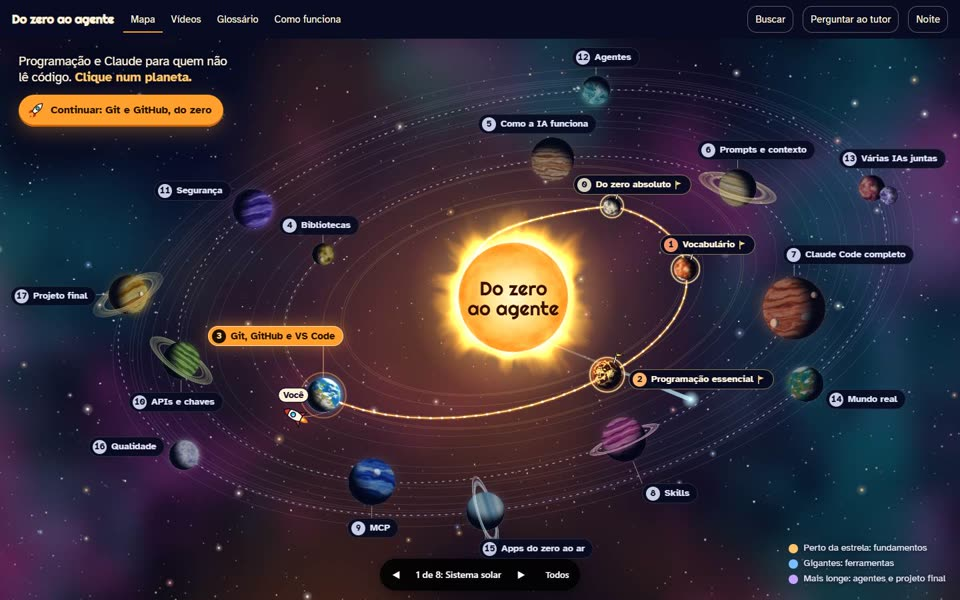
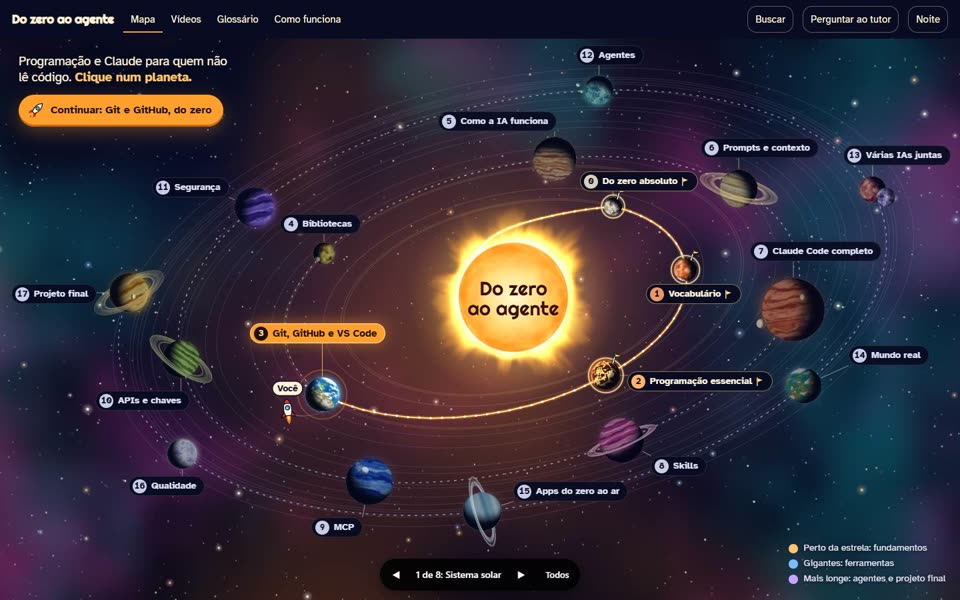
Versão final da aparência do sistema solar

diff --git a/temas/1-sistema-solar.html b/temas/1-sistema-solar.html
@@ -436,12 +436,12 @@ function estadoNave(x, y, r, L, t) {
   const [nx, ny] = pos(fi), [ax, ay] = pos(fi + .05);
   return { nx, ny, dir: Math.atan2(ay - ny, ax - nx), frente: Math.sin(fi) >= 0, fi, pos };
 }
-function pintaRastro(c, n, r, alfa) {
-  c.lineCap = 'round';
+function pintaRastro(c, n, r, alfa, z) {
+  c.lineCap = 'butt';
   for (let i = 0; i < 16; i++) {
     const a = n.fi - .1 - i * .11, b = a - .11, [x1, y1] = n.pos(a), [x2, y2] = n.pos(b);
     if (Math.sin(a) < 0 && Math.hypot(x1 - n.cx, y1 - n.cy) < r) continue;
-    c.strokeStyle = `rgba(255,190,110,${alfa * (1 - i / 16) * .85})`; c.lineWidth = Math.max(1, r * .05) * (1 - i / 22);
+    c.strokeStyle = `rgba(255,190,110,${alfa * (1 - i / 16) * .85})`; c.lineWidth = Math.max(1 / z, Math.min(r * .05, 3.4 / z)) * (1 - i / 22);
     c.beginPath(); c.moveTo(x1, y1); c.lineTo(x2, y2); c.stroke();
   }
 }
@@ -467,7 +467,7 @@ function pintaPlaneta(c, p, x, y, r, ang, t, o) {
   if (p.luas) for (const l of p.luas) pintaLua(c, p, l, x, y, r, ang, t, false);
   if (p.par) pintaLua(c, p, p.par, x, y, r, ang, t, false);
   c.globalAlpha = 1;
-  if (nave && !nave.frente) { pintaRastro(c, nave, r, 1); pintaNave(c, nave.nx, nave.ny, o.nave * .88, nave.dir, t); }
+  if (nave && !nave.frente) { pintaRastro(c, nave, r, 1, z); pintaNave(c, nave.nx, nave.ny, o.nave * .88, nave.dir, t); }
   superficie(c, p, x, y, r, ang, ap ? 1 - ap * .55 : 1);
   if (ap) { c.globalAlpha = ap * .4; c.fillStyle = '#060920'; c.beginPath(); c.arc(x, y, r + .4, 0, TAU); c.fill(); c.globalAlpha = 1 - ap * .34; }
   if (p.anel) metadeAnel(c, p, x, y, r, false);
@@ -476,8 +476,8 @@ function pintaPlaneta(c, p, x, y, r, ang, t, o) {
   c.globalAlpha = 1;
   if (p.est === 'feito') { pintaAnelLuz(c, x, y, r + Math.max(4 / z, r * .2), z); pintaBandeira(c, x, y, r, t, z); }
   if (nave) {
-    if (nave.frente) { pintaRastro(c, nave, r, 1); pintaNave(c, nave.nx, nave.ny, o.nave, nave.dir, t); }
-    pintaEtiquetaVoce(c, nave, o.nave, o.vocePx, z);
+    if (nave.frente) { pintaRastro(c, nave, r, 1, z); pintaNave(c, nave.nx, nave.ny, o.nave, nave.dir, t); }
+    if (z < 1.5 || nave.frente) pintaEtiquetaVoce(c, nave, o.nave, o.vocePx, z);
   }
 }
 /* Céu em camadas, cometas e a estrela */
@@ -886,12 +886,6 @@ function criarSistema() {
   medir();
   CORPOS.forEach(b => pedirTextura(b, 256));
   if (!calmo) setTimeout(() => { esfera(Dhi, 1024); }, 2300);
-  window.__solar = {
-    avancar: s => { tempo += s; sujo = true; },
-    rotulos: () => rot.map(e => ({ n: e.p.n, x: e.x, y: e.y, w: e.w, h: e.h })),
-    planetas: () => PLANETAS.map(p => ({ n: p.n, x: p.sx, y: p.sy, r: p.sr, fora: p.fora })),
-    estrela: () => ({ x: cx, y: cy, r: Restrela }), geo: () => ({ A, B, S })
-  };
   return {
     medir, quadro, voar: iniciarVoo, fontes: medirRotulos,
     noite: on => { alvoBrilho = on ? .72 : 1; sujo = true; },
